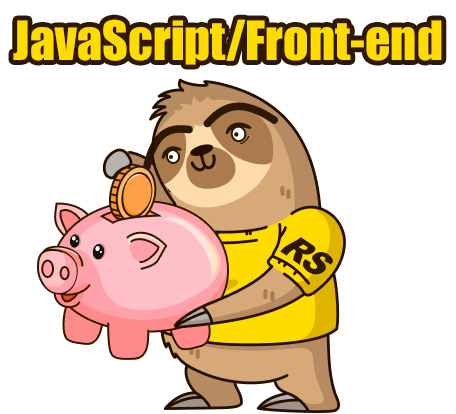
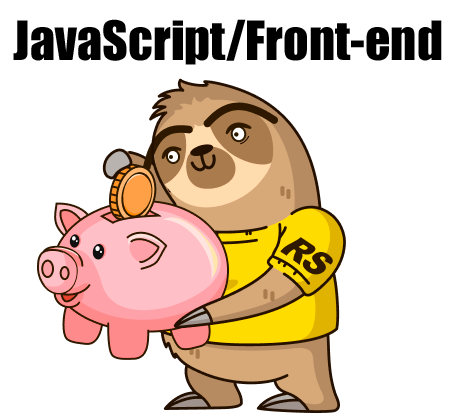
refactor: update courses imgs

Changed region(s): [[0.0, 0.029, 0.9825, 0.1739]]

diff --git a/README.md b/README.md
@@ -34,6 +34,6 @@ I am passionate about web development and eager to apply my skills in a professi
 | **Shelter** | [Shelter](https://rolling-scopes-school.github.io/spacepocket1985-JSFE2023Q1/shelter/index.html) |Shelter is a pet shelter website that is adaptive and interactive. |**JavaScript, HTML, CSS** |
 
 ## Сompleted RS School courses 💻
-[<img src="./img/rs-react.png" alt="RS-School" height="90">](https://rs.school/courses/reactjs)
-[<img src="./img/rs-js.png" alt="RS-School" height="90">](https://rs.school/courses/javascript-ru)
-[<img src="./img/rs-pre.png" alt="RS-School" height="90">](https://rs.school/courses/javascript-preschool-ru)
+[<img src="./img/rs-react.png" alt="RS-School" height="150">](https://rs.school/courses/reactjs)
+[<img src="./img/rs-js.png" alt="RS-School" height="150">](https://rs.school/courses/javascript-ru)
+[<img src="./img/rs-pre.png" alt="RS-School" height="150">](https://rs.school/courses/javascript-preschool-ru)
